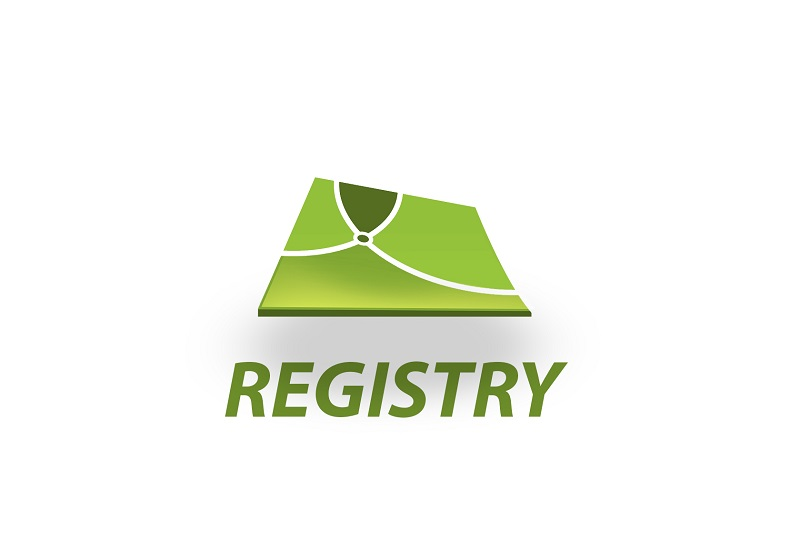
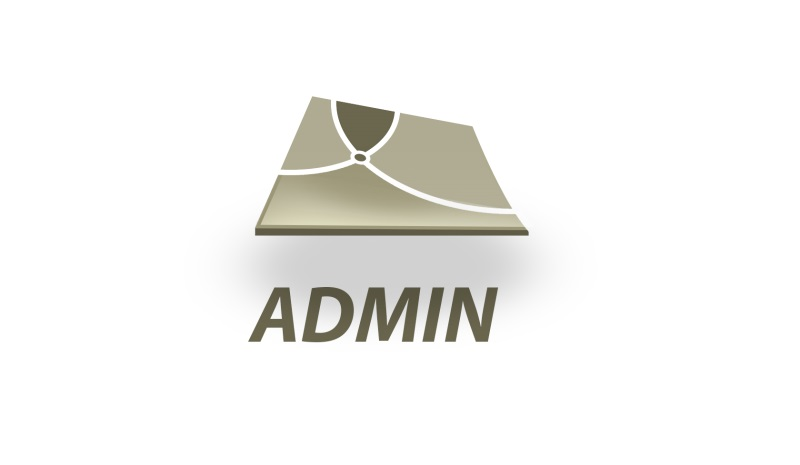
SOLA Desktop Rebranding [#448]
Updates so the correct favicon is shown for both the Admin Desktop
as well as the Registry Desktop. Also updated so the login form
shows a title depending on which application is running.

Changed region(s): [[0.2812, 0.2108, 0.7188, 0.7828]]

diff --git a/swing/ui/src/main/java/org/sola/clients/swing/ui/security/LoginForm.java b/swing/ui/src/main/java/org/sola/clients/swing/ui/security/LoginForm.java
@@ -1,28 +1,30 @@
 /**
  * ******************************************************************************************
- * Copyright (C) 2014 - Food and Agriculture Organization of the United Nations (FAO).
- * All rights reserved.
+ * Copyright (C) 2014 - Food and Agriculture Organization of the United Nations
+ * (FAO). All rights reserved.
  *
- * Redistribution and use in source and binary forms, with or without modification,
- * are permitted provided that the following conditions are met:
+ * Redistribution and use in source and binary forms, with or without
+ * modification, are permitted provided that the following conditions are met:
  *
- *    1. Redistributions of source code must retain the above copyright notice,this list
- *       of conditions and the following disclaimer.
- *    2. Redistributions in binary form must reproduce the above copyright notice,this list
- *       of conditions and the following disclaimer in the documentation and/or other
- *       materials provided with the distribution.
- *    3. Neither the name of FAO nor the names of its contributors may be used to endorse or
- *       promote products derived from this software without specific prior written permission.
+ * 1. Redistributions of source code must retain the above copyright notice,this
+ * list of conditions and the following disclaimer. 2. Redistributions in binary
+ * form must reproduce the above copyright notice,this list of conditions and
+ * the following disclaimer in the documentation and/or other materials provided
+ * with the distribution. 3. Neither the name of FAO nor the names of its
+ * contributors may be used to endorse or promote products derived from this
+ * software without specific prior written permission.
  *
- * THIS SOFTWARE IS PROVIDED BY THE COPYRIGHT HOLDERS AND CONTRIBUTORS "AS IS" AND ANY
- * EXPRESS OR IMPLIED WARRANTIES, INCLUDING, BUT NOT LIMITED TO, THE IMPLIED WARRANTIES
- * OF MERCHANTABILITY AND FITNESS FOR A PARTICULAR PURPOSE ARE DISCLAIMED. IN NO EVENT
- * SHALL THE COPYRIGHT HOLDER OR CONTRIBUTORS BE LIABLE FOR ANY DIRECT, INDIRECT, INCIDENTAL,
- * SPECIAL, EXEMPLARY, OR CONSEQUENTIAL DAMAGES (INCLUDING, BUT NOT LIMITED TO,PROCUREMENT
- * OF SUBSTITUTE GOODS OR SERVICES; LOSS OF USE, DATA, OR PROFITS; OR BUSINESS INTERRUPTION)
- * HOWEVER CAUSED AND ON ANY THEORY OF LIABILITY, WHETHER IN CONTRACT,STRICT LIABILITY,OR TORT
- * (INCLUDING NEGLIGENCE OR OTHERWISE) ARISING IN ANY WAY OUT OF THE USE OF THIS SOFTWARE,
- * EVEN IF ADVISED OF THE POSSIBILITY OF SUCH DAMAGE.
+ * THIS SOFTWARE IS PROVIDED BY THE COPYRIGHT HOLDERS AND CONTRIBUTORS "AS IS"
+ * AND ANY EXPRESS OR IMPLIED WARRANTIES, INCLUDING, BUT NOT LIMITED TO, THE
+ * IMPLIED WARRANTIES OF MERCHANTABILITY AND FITNESS FOR A PARTICULAR PURPOSE
+ * ARE DISCLAIMED. IN NO EVENT SHALL THE COPYRIGHT HOLDER OR CONTRIBUTORS BE
+ * LIABLE FOR ANY DIRECT, INDIRECT, INCIDENTAL, SPECIAL, EXEMPLARY, OR
+ * CONSEQUENTIAL DAMAGES (INCLUDING, BUT NOT LIMITED TO,PROCUREMENT OF
+ * SUBSTITUTE GOODS OR SERVICES; LOSS OF USE, DATA, OR PROFITS; OR BUSINESS
+ * INTERRUPTION) HOWEVER CAUSED AND ON ANY THEORY OF LIABILITY, WHETHER IN
+ * CONTRACT,STRICT LIABILITY,OR TORT (INCLUDING NEGLIGENCE OR OTHERWISE) ARISING
+ * IN ANY WAY OUT OF THE USE OF THIS SOFTWARE, EVEN IF ADVISED OF THE
+ * POSSIBILITY OF SUCH DAMAGE.
  * *********************************************************************************************
  */
 package org.sola.clients.swing.ui.security;
@@ -35,7 +37,9 @@ import java.awt.event.KeyEvent;
 import java.beans.PropertyChangeEvent;
 import java.beans.PropertyChangeListener;
 import javax.swing.ImageIcon;
+import javax.swing.UIManager;
 import org.sola.clients.swing.common.utils.LocalizationTools;
+import org.sola.common.StringUtility;
 
 /**
  * Login form. Allows to authenticate user.
@@ -43,31 +47,40 @@ import org.sola.clients.swing.common.utils.LocalizationTools;
 public class LoginForm extends javax.swing.JFrame {
 
     private KeyEventDispatcher escKeyListener;
-    
-    /** Creates {@link LoginPanel} instance.*/
+
+    /**
+     * Creates {@link LoginPanel} instance.
+     */
     private LoginPanel createLoginPanel() {
         return new LoginPanel();
     }
 
-    /** Creates new form LoginForm */
+    /**
+     * Creates new form LoginForm
+     */
     public LoginForm() {
         initComponents();
         LocalizationTools.setOrientation(loginPanel);
         this.setIconImage(new ImageIcon(LoginForm.class.getResource("/images/common/key.png")).getImage());
-        
-        
-         // shift the title text on the right of the Registry Icon Image
+
+        // shift the title text on the right of the Registry Icon Image
         String pre = "";
         pre = String.format("%" + 8 + "s", pre);
        //  put the obtained number of blanks before the title text
-        this.setTitle(pre+this.getTitle());
+
+        // Use the UI Manager to determine the
+        String themeTitle = UIManager.getString("solaLoginTitle");
+        if (StringUtility.isEmpty(themeTitle)) {
+            themeTitle = this.getTitle();
+        }
+        this.setTitle(pre + themeTitle);
 
         loginPanel.addPropertyChangeListener(new PropertyChangeListener() {
 
             @Override
             public void propertyChange(PropertyChangeEvent evt) {
                 if (evt.getPropertyName().equals(LoginPanel.LOGIN_RESULT)) {
-                    if((Boolean)evt.getNewValue() == Boolean.TRUE && escKeyListener != null){
+                    if ((Boolean) evt.getNewValue() == Boolean.TRUE && escKeyListener != null) {
                         KeyboardFocusManager.getCurrentKeyboardFocusManager()
                                 .removeKeyEventDispatcher(escKeyListener);
                     }
@@ -76,31 +89,33 @@ public class LoginForm extends javax.swing.JFrame {
             }
         });
         loginPanel.setUserNameFocus();
-        
+
         escKeyListener = new KeyEventDispatcher() {
 
             @Override
             public boolean dispatchKeyEvent(KeyEvent e) {
                 // Catch ESC key press
-                if(e.getKeyCode() == KeyEvent.VK_ESCAPE && e.getID() == KeyEvent.KEY_RELEASED){
+                if (e.getKeyCode() == KeyEvent.VK_ESCAPE && e.getID() == KeyEvent.KEY_RELEASED) {
                     exitSystem();
                 }
                 return false;
             }
         };
-                
+
         KeyboardFocusManager.getCurrentKeyboardFocusManager().addKeyEventDispatcher(escKeyListener);
     }
 
-    private void exitSystem(){
+    private void exitSystem() {
         System.exit(0);
     }
-    
-    /** Enables or disables login panel*/
-    public void enableLoginPanel(boolean isEnabled){
+
+    /**
+     * Enables or disables login panel
+     */
+    public void enableLoginPanel(boolean isEnabled) {
         loginPanel.enablePanel(isEnabled);
     }
-    
+
     @SuppressWarnings("unchecked")
     // <editor-fold defaultstate="collapsed" desc="Generated Code">//GEN-BEGIN:initComponents
     private void initComponents() {

diff --git a/swing/common/src/main/java/org/sola/clients/swing/common/laf/LafManager.java b/swing/common/src/main/java/org/sola/clients/swing/common/laf/LafManager.java
@@ -32,11 +32,14 @@ package org.sola.clients.swing.common.laf;
 import java.awt.Color;
 import java.awt.ComponentOrientation;
 import java.awt.Font;
+import java.net.URL;
 import java.util.Locale;
 import java.util.logging.Level;
 import java.util.logging.Logger;
 import javax.swing.*;
 import javax.swing.UIManager.LookAndFeelInfo;
+import org.sola.common.messaging.ClientMessage;
+import org.sola.common.messaging.MessageUtility;
 
 /**
  *
@@ -48,6 +51,7 @@ import javax.swing.UIManager.LookAndFeelInfo;
 public class LafManager {
 
     public static final String REGISTRY_THEME = "registry";
+    public static final String ADMIN_THEME = "admin";
     public static final String GREEN_THEME = "green";
 
     public Object getBgFont() {
@@ -251,11 +255,11 @@ public class LafManager {
     /**
      * sets {@link Look and feel} settings accordingly.
      */
-    public void setProperties(String theme) {
+    public void setProperties(final String theme) {
         UIDefaults defaults = UIManager.getDefaults();
         final Object painterScrollbar = defaults.get("ScrollBar:ScrollBarThumb[Disabled].backgroundPainter");
 
-        if (REGISTRY_THEME.equals(theme)) {
+        if (REGISTRY_THEME.equals(theme) || ADMIN_THEME.equals(theme)) {
             try {
 
                 UIManager.installLookAndFeel("AdvancedNimbus", AdvancedNimbusLookAndFeel.class.getName());
@@ -307,13 +311,12 @@ public class LafManager {
                         ret.put("Table.dropLineColor", new Color(255, 255, 255));
                         ret.put("MenuItem.background", new Color(255, 255, 255));
                         ret.put("List.foreground", new Color(0, 102, 51));
-                        ret.put("List[Selected].textBackground", new Color(154, 177, 95)); 
+                        ret.put("List[Selected].textBackground", new Color(154, 177, 95));
                         ret.put("TableHeader:\"TableHeader.renderer\"[Enabled].backgroundPainter", new FillPainter(new Color(154, 177, 95)));
                         ret.put("MenuBar:Menu[Enabled].textForeground", new Color(255, 255, 255));
                         ret.put("MenuBar[Enabled].backgroundPainter", new FillPainter(new Color(181, 181, 150)));
                         ret.put("MenuBar:Menu[Selected].backgroundPainter", new FillPainter(new Color(154, 177, 95)));
-                        
-                        
+
                         //      #### FONTS  ####   
                         ret.put("TextField.font", Font.decode("AppleGothic"));
                         ret.put("TextArea.font", Font.decode("AppleGothic"));
@@ -326,6 +329,20 @@ public class LafManager {
                         ret.put("List.font", Font.decode("AppleGothic"));
                         ret.put("RadioButton.font", Font.decode("AppleGothic"));
                         ret.put("RootPaneUI", NimbusRootPaneUI.class.getName());
+
+                        URL imgURL = null;
+                        String loginTitle = ""; 
+                        if (ADMIN_THEME.equals(theme)) {
+                            // Use the icon for the admin theme 
+                            imgURL = this.getClass().getResource("/images/common/sola_icon_admin.png");
+                            loginTitle = MessageUtility.getLocalizedMessageText(ClientMessage.SECURITY_LOGIN_TITLE_ADMIN); 
+                        } else {
+                            // Use the icon for the registry theme 
+                            imgURL = this.getClass().getResource("/images/common/sola_icon_registry.png");
+                            loginTitle = MessageUtility.getLocalizedMessageText(ClientMessage.SECURITY_LOGIN_TITLE_REGISTRY); 
+                        }
+                        ret.put("solaTitleBarIcon", new ImageIcon(imgURL));
+                        ret.put("solaLoginTitle", loginTitle); 
                         return ret;
                     }
                 });
@@ -465,7 +482,6 @@ public class LafManager {
             UIManager.put("SolaGroup", new Color(153, 153, 153));
 //            HEADER PANEL BACKGROUND        
             UIManager.put("SolaHeader", new Color(51, 153, 0));
-
 
 //      ####  Background Colors   #####         
             UIManager.put("PasswordField.background", new Color(236, 247, 235));   /*

diff --git a/swing/ui/src/main/java/org/sola/clients/swing/ui/localization/LocalizationManager.java b/swing/ui/src/main/java/org/sola/clients/swing/ui/localization/LocalizationManager.java
@@ -34,6 +34,8 @@ import java.util.prefs.Preferences;
 import org.sola.clients.beans.cache.CacheManager;
 import org.sola.common.WindowUtility;
 import org.sola.common.logging.LogUtility;
+import org.sola.common.messaging.ClientMessage;
+import org.sola.common.messaging.MessageUtility;
 
 /**
  * Provides methods to manage languages and locales settings.
@@ -49,7 +51,6 @@ public class LocalizationManager {
     // private static final String PRODUCTION_HOST_IP = "46.149.21.37";
     private static final String PRODUCTION_HOST_NAME = "localhost";
     private static final String PRODUCTION_HOST_IP = "127.0.0.1";
-    private static final String SOLA_VERSION = "1402a SNAPSHOT";
 
     /**
      * Loads default language and country codes and sets {@link Locale} settings
@@ -143,9 +144,9 @@ public class LocalizationManager {
      * @return
      */
     public static String getVersionNumber() {
-        String result = "Test " + SOLA_VERSION;
+        String result = MessageUtility.getLocalizedMessageText(ClientMessage.ADMIN_TEST_VERSION_NUMBER);
         if (isProductionHost()) {
-            result = "Release " + SOLA_VERSION;
+            result = MessageUtility.getLocalizedMessageText(ClientMessage.ADMIN_PROD_VERSION_NUMBER);
         }
         return result;
     }

diff --git a/swing/common/src/main/java/org/sola/clients/swing/common/laf/NimbusTitlePane.java b/swing/common/src/main/java/org/sola/clients/swing/common/laf/NimbusTitlePane.java
@@ -38,11 +38,6 @@ import javax.swing.border.*;
 import javax.swing.plaf.*;
 import java.util.Locale;
 import javax.accessibility.*;
-import javax.swing.plaf.synth.Region;
-import javax.swing.plaf.synth.SynthConstants;
-import javax.swing.plaf.synth.SynthContext;
-import javax.swing.plaf.synth.SynthLookAndFeel;
-import sun.awt.SunToolkit;
 import sun.swing.SwingUtilities2;
 
 
@@ -502,10 +497,9 @@ public class NimbusTitlePane extends JComponent {
 //            menuButton.putClientProperty(AccessibleContext.ACCESSIBLE_NAME_PROPERTY,
 //                                           "Menu");
             menuButton.setBackground(new Color (33,90,100));
-            
-            
-            URL imgURL = this.getClass().getResource("/images/common/sola_icon.png");
-            menuButton.setIcon(new ImageIcon(imgURL));
+             
+            // Use the solaTitleBarIcon as the icon for the window.
+            menuButton.setIcon(UIManager.getIcon("solaTitleBarIcon"));
         }
     }
 

diff --git a/swing/admin/src/main/java/org/sola/clients/swing/admin/AdminApplication.java b/swing/admin/src/main/java/org/sola/clients/swing/admin/AdminApplication.java
@@ -111,9 +111,9 @@ public class AdminApplication {
                 // Select the Look and Feel Theme based on whether this is 
                 // the production version or the test version of SOLA. 
                 if (LocalizationManager.isProductionHost()) {
-                    LafManager.getInstance().setProperties("registry");
+                    LafManager.getInstance().setProperties(LafManager.ADMIN_THEME);
                 } else {
-                    LafManager.getInstance().setProperties("registry");
+                    LafManager.getInstance().setProperties(LafManager.GREEN_THEME);
                 }
 
                 final LoginForm loginForm = new LoginForm();

diff --git a/swing/admin/src/main/java/org/sola/clients/swing/admin/MainForm.java b/swing/admin/src/main/java/org/sola/clients/swing/admin/MainForm.java
@@ -77,7 +77,7 @@ public class MainForm extends javax.swing.JFrame {
         initComponents();
         this.setTitle(this.getTitle() + LocalizationManager.getVersionNumber());
        
-        URL imgURL = this.getClass().getResource("/images/common/admin.png");
+        URL imgURL = this.getClass().getResource("/images/sola/favicon.png");
         this.setIconImage(new ImageIcon(imgURL).getImage());
         lblUserName.setText(SecurityBean.getCurrentUser().getUserName());
 

diff --git a/swing/ui/src/main/java/org/sola/clients/swing/ui/security/LoginPanel.java b/swing/ui/src/main/java/org/sola/clients/swing/ui/security/LoginPanel.java
@@ -29,10 +29,7 @@ package org.sola.clients.swing.ui.security;
 
 import java.awt.ComponentOrientation;
 import java.awt.event.KeyEvent;
-import java.beans.PropertyChangeEvent;
-import java.beans.PropertyChangeListener;
 import java.util.Locale;
-import java.util.ResourceBundle;
 import java.util.prefs.Preferences;
 import javax.swing.JRadioButton;
 import org.sola.clients.beans.security.SecurityBean;

diff --git a/swing/common/src/main/java/org/sola/clients/swing/common/laf/AdvancedNimbusLookAndFeel.java b/swing/common/src/main/java/org/sola/clients/swing/common/laf/AdvancedNimbusLookAndFeel.java
@@ -29,8 +29,6 @@
  */
 package org.sola.clients.swing.common.laf;
 
-import org.sola.clients.swing.common.laf.NimbusFrameBorder;
-import org.sola.clients.swing.common.laf.NimbusRootPaneUI;
 import java.awt.Dimension;
 import javax.swing.UIDefaults;
 import javax.swing.plaf.UIResource;
